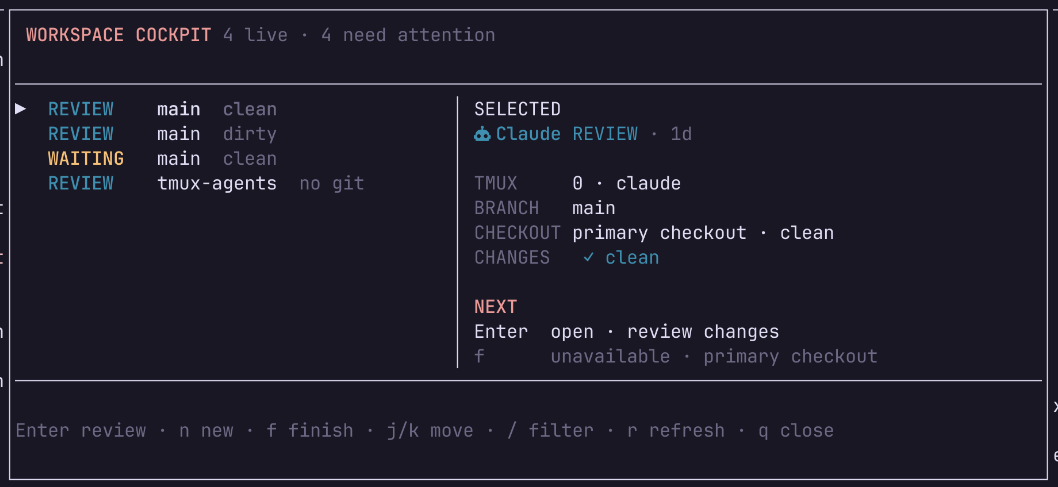
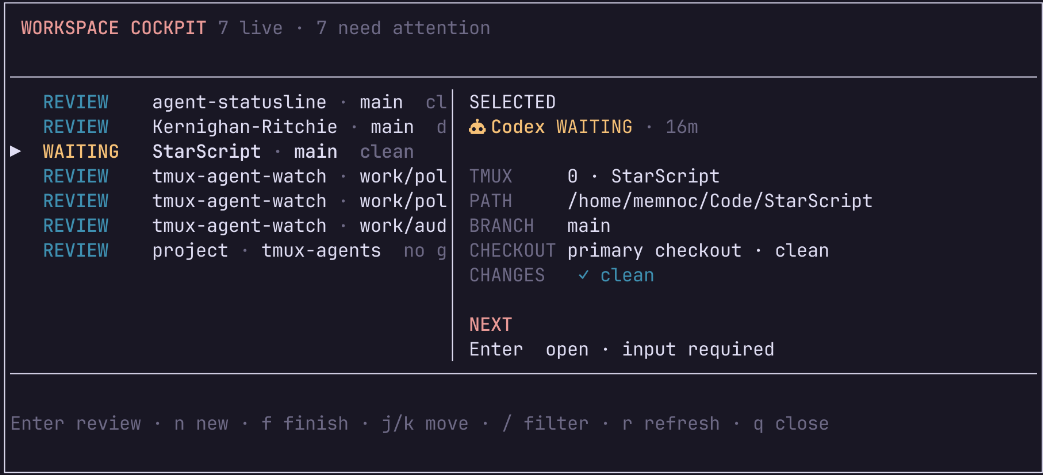
Refresh README gallery and active workspace styling

diff --git a/README.md b/README.md
@@ -28,22 +28,41 @@ remain unchanged.
     </td>
   </tr>
   <tr>
-    <td width="50%">
-      <img src="docs/images/workspace-navigator.png" alt="The workspace navigator grouping ordinary tmux windows and active coding agents">
+    <td colspan="2">
+      <img src="docs/images/status-bar-active-workspace.png" alt="A wide tmux status bar with the active app workspace highlighted between square-ended rails">
       <br>
-      <sub><strong>Workspace navigator:</strong> browse every window and jump directly to an agent.</sub>
+      <sub><strong>Active workspace:</strong> slim rails and a restrained text highlight mark the current ordinary workspace.</sub>
+    </td>
+  </tr>
+  <tr>
+    <td width="50%">
+      <img src="docs/images/workspace-cockpit.png" alt="The Workspace Cockpit showing project, path, branch, checkout, and lifecycle details for the selected workspace">
+      <br>
+      <sub><strong>Workspace Cockpit:</strong> review, jump to, and finish worktrees with their project identity and full path visible.</sub>
     </td>
     <td width="50%">
-      <img src="docs/images/workspace-cockpit.png" alt="The Workspace Cockpit showing the agent fleet and selected workspace details">
+      <img src="docs/images/workspace-start.png" alt="The Start Workspace form with task, generated branch, and agent selection fields">
       <br>
-      <sub><strong>Workspace Cockpit:</strong> start, review, jump to, and finish worktrees from one place.</sub>
+      <sub><strong>Start Workspace:</strong> describe the task, preview its branch, and choose the agent without leaving tmux.</sub>
     </td>
   </tr>
   <tr>
     <td colspan="2">
-      <img src="docs/images/status-bar-narrow.png" alt="A compact tmux status bar adapted to a narrow split terminal">
+      <img src="docs/images/workspace-navigator.png" alt="The workspace navigator grouping ordinary tmux windows and active coding agents across projects">
       <br>
-      <sub><strong>Responsive by design:</strong> labels collapse before lifecycle, Git, and navigation signals disappear.</sub>
+      <sub><strong>Workspace Navigator:</strong> browse every ordinary window and active agent across tmux sessions.</sub>
+    </td>
+  </tr>
+  <tr>
+    <td width="50%">
+      <img src="docs/images/status-bar-narrow.png" alt="The intermediate-width tmux status bar retaining lifecycle, Git, and selected-agent context">
+      <br>
+      <sub><strong>Narrow:</strong> inactive labels collapse while the selected workspace and Git context remain visible.</sub>
+    </td>
+    <td width="50%">
+      <img src="docs/images/status-bar-compact.png" alt="The sub-80-column tmux status bar showing project, compact Git state, agent lifecycle, and navigator cue in one flow">
+      <br>
+      <sub><strong>Compact:</strong> project, Git, lifecycle, and navigation share one collision-free flow.</sub>
     </td>
   </tr>
 </table>
